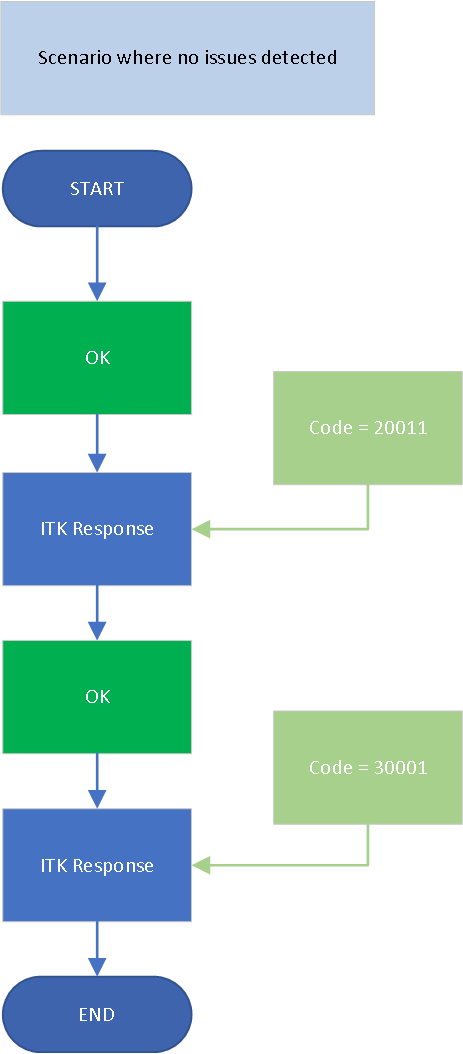
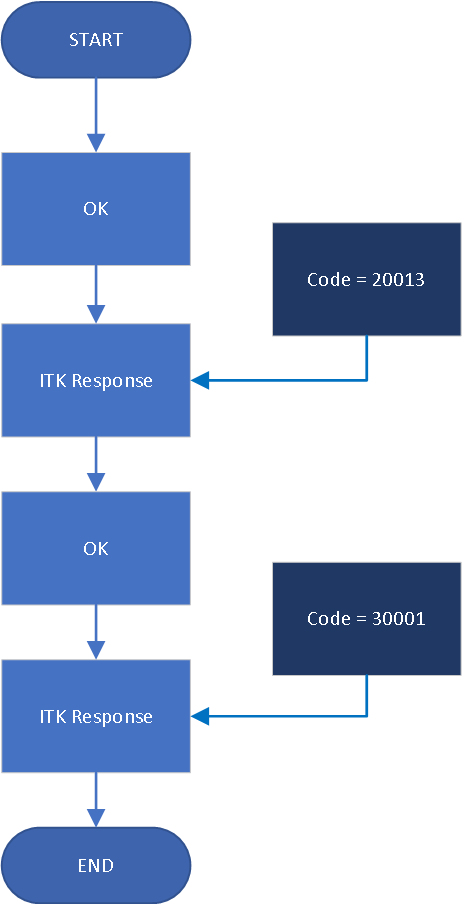
Updated for changes in error codes

diff --git a/pages/explore/explore_response_codes.md b/pages/explore/explore_response_codes.md
@@ -1117,7 +1117,7 @@ There are 3 possible flows:
 
 ## Flow where issue is detected at infrastructure (technical) level ##
 
-<img src="images/explore/full_ack_1.png" style="width: 100%;max-width: 100%;"/> 
+<img src="images/explore/full_ack_1.png" style="width: 75%;max-width: 75%;"/> 
 
 
 Flow where issues are detected at business level
